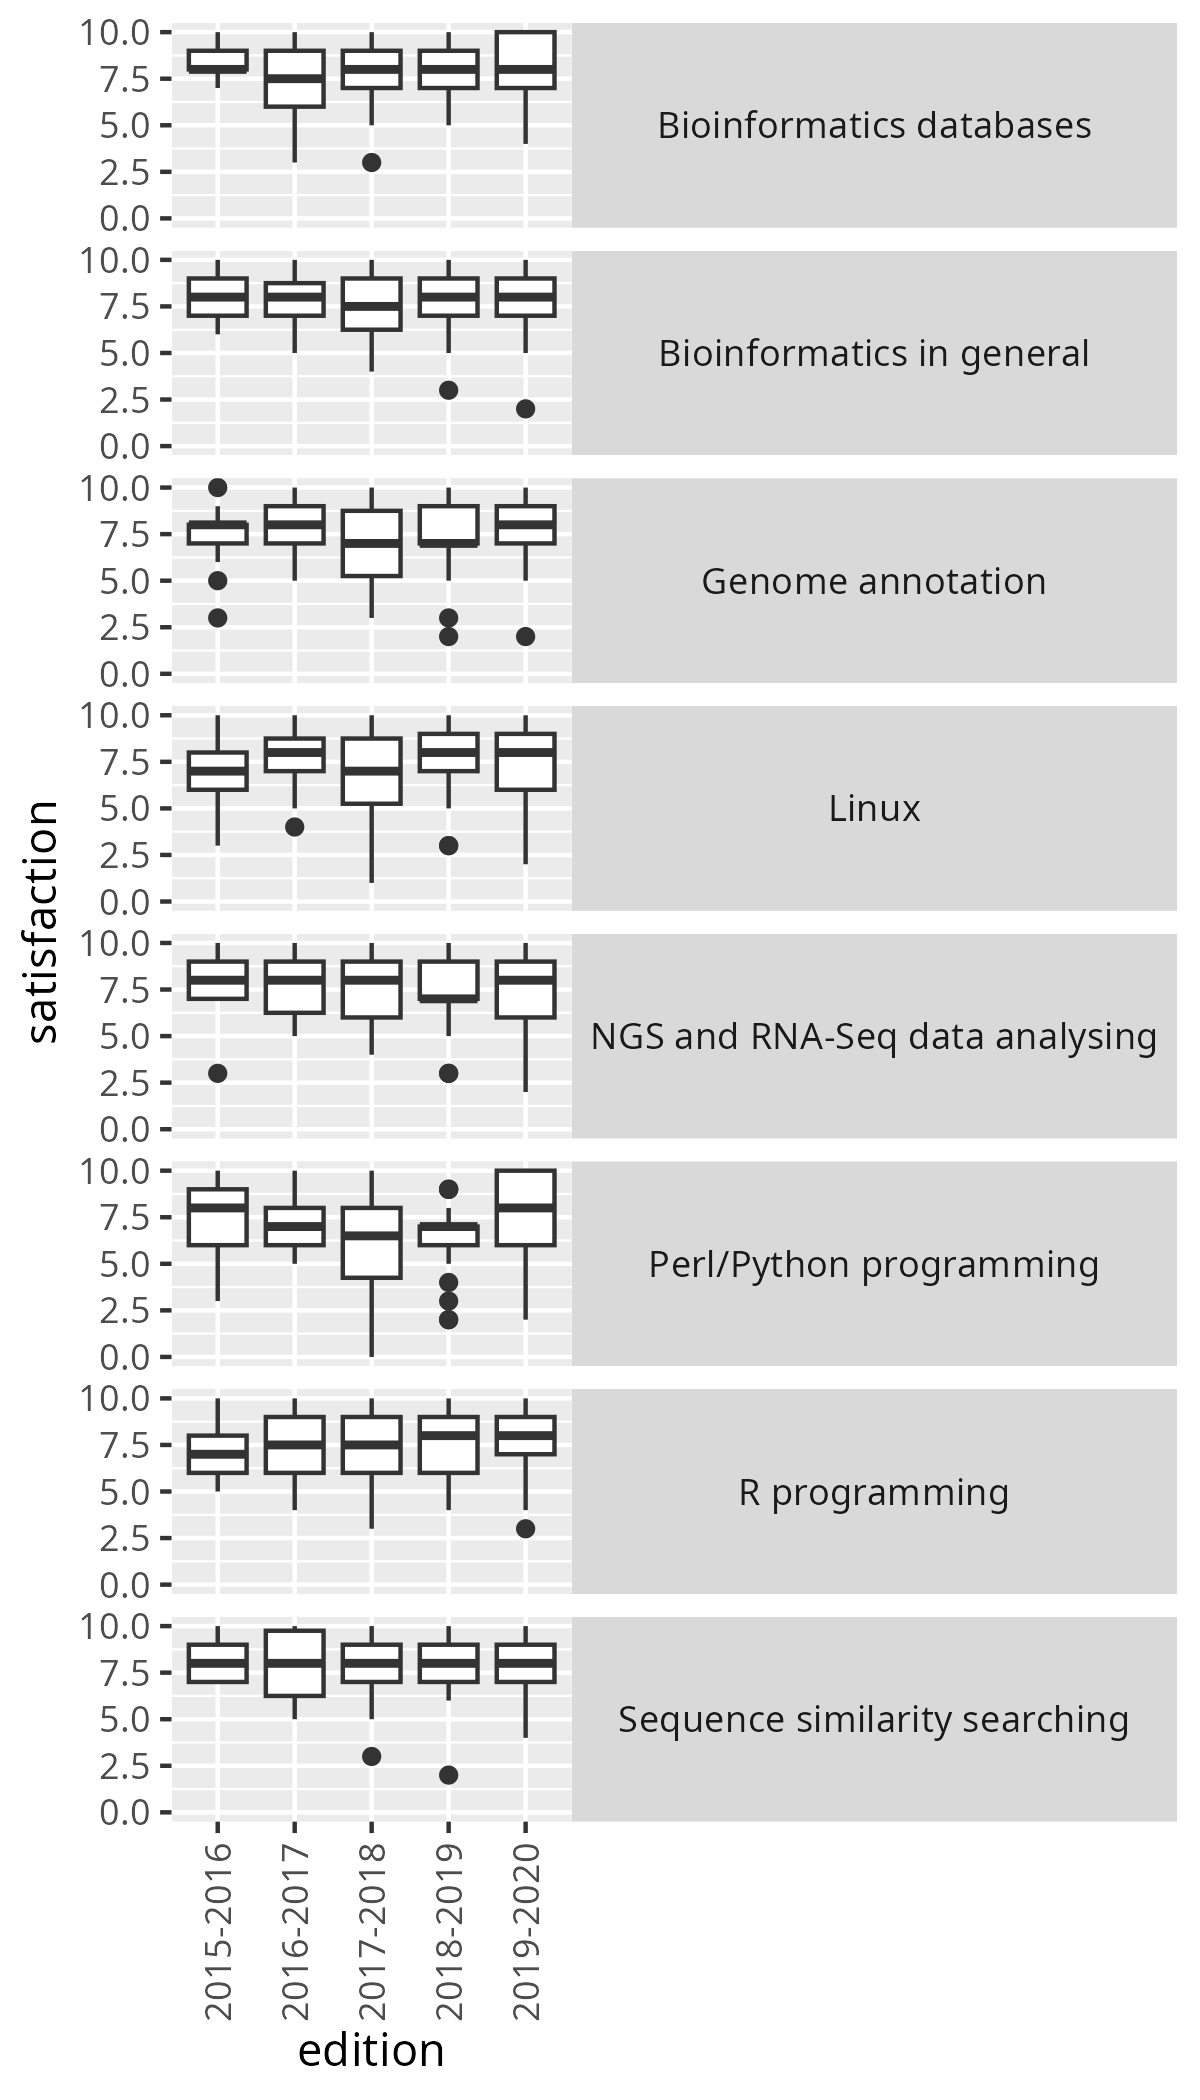
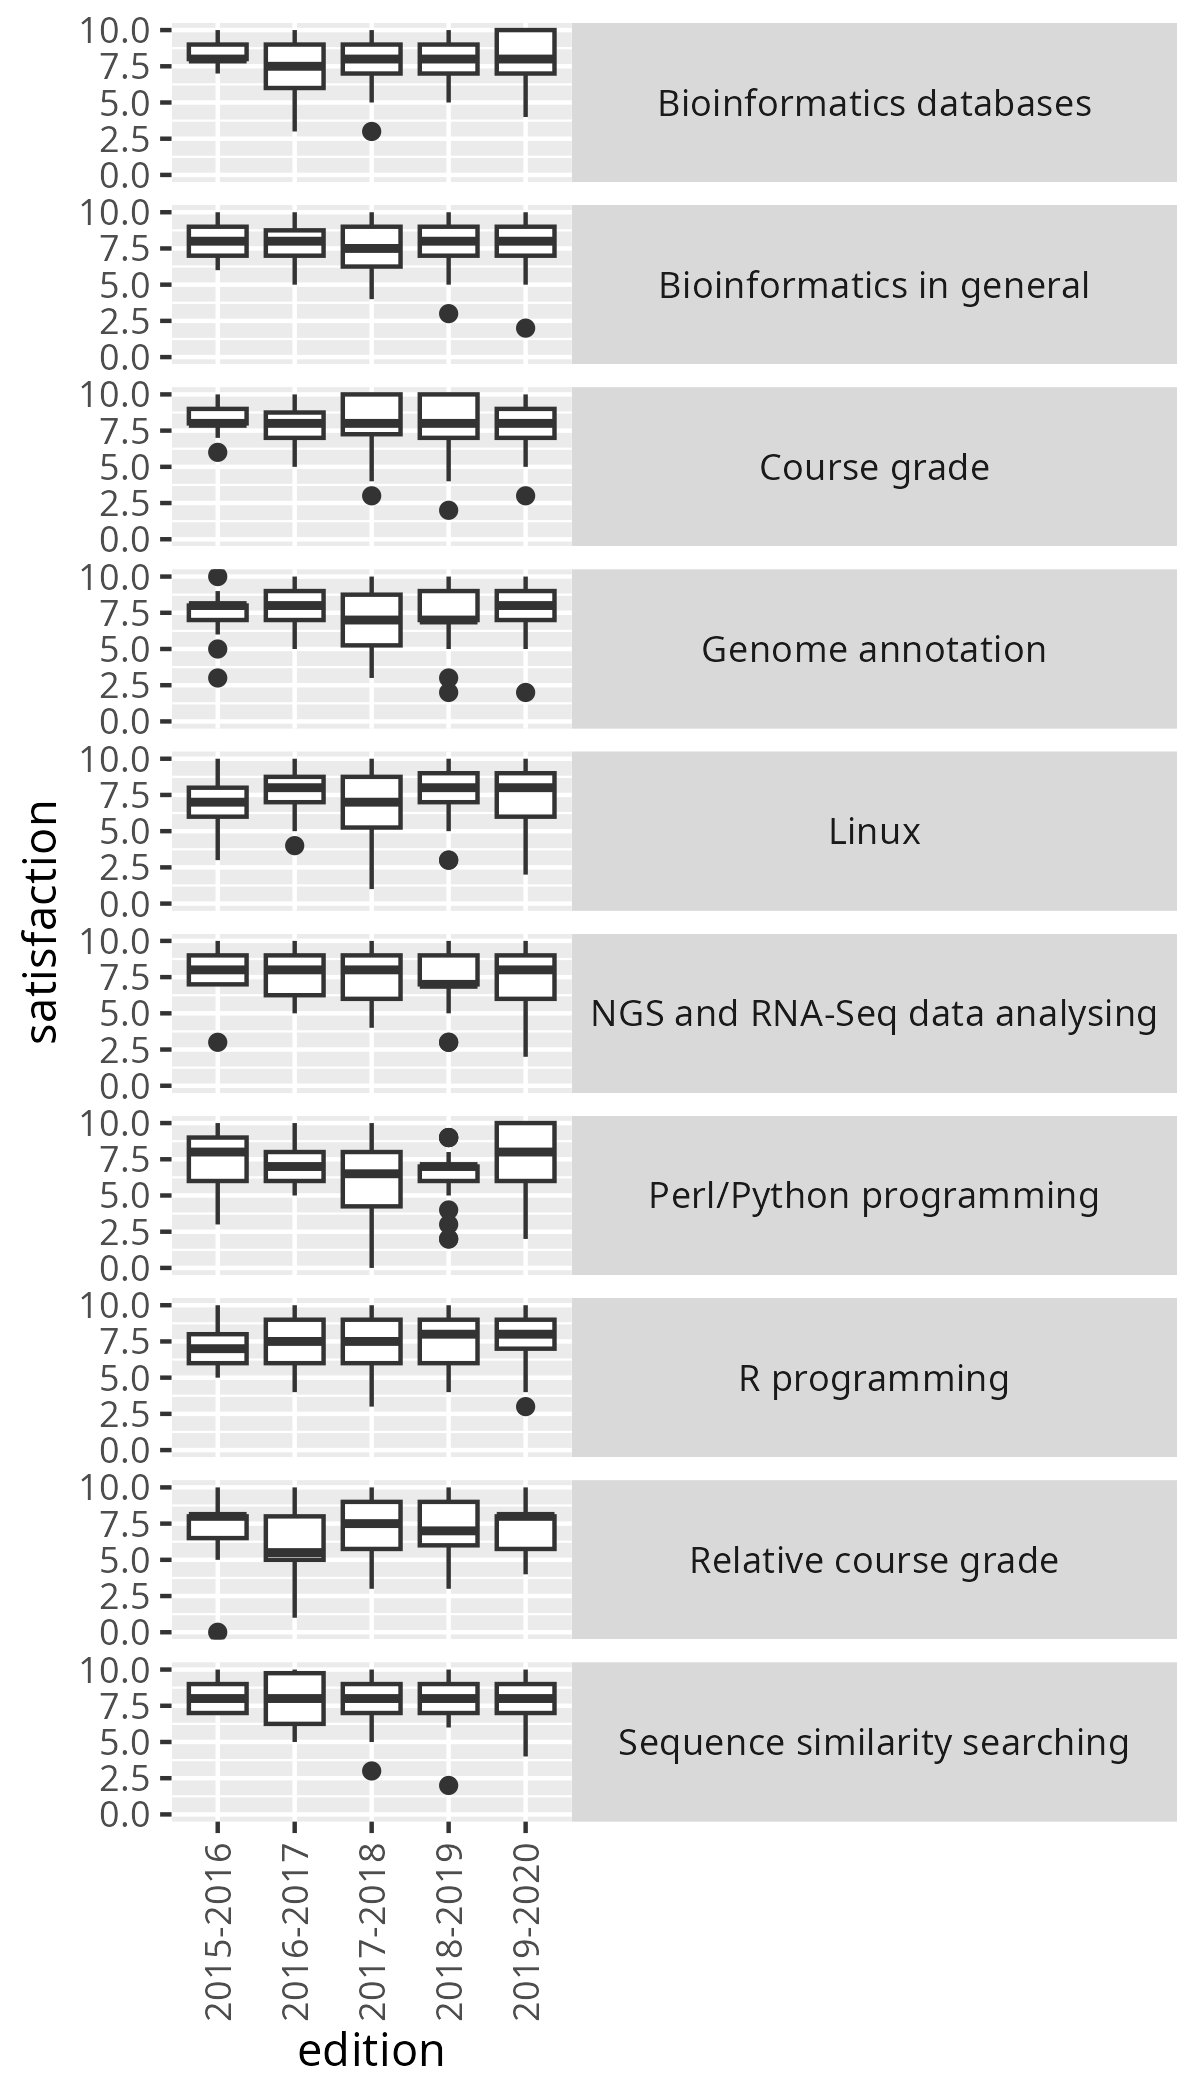
Analyse satisfactions

Changed region(s): [[0.0617, 0.0, 0.9867, 0.8667]]

diff --git a/docs/events/20250527/README.md b/docs/events/20250527/README.md
@@ -81,17 +81,33 @@ Well:
 - The data uses a scale from 1-10, where this is plotted from 1-5. Why?
 
 
-course                        |p_value|is_changing
-------------------------------|-------|-----------
-Sequence similarity searching |0.974|FALSE
-Bioinformatics databases      |0.616|FALSE
-Linux                         |0.277|FALSE
-R programming                 |0.289|FALSE
-Perl/Python programming       |0.176|FALSE
-NGS and RNA-Seq data analysing|0.857|FALSE
-Genome annotation             |0.154|FALSE
-Bioinformatics in general     |0.688|FALSE
-All combined                  |0.036|TRUE
+##  Fig 4a, section 4.3: student course satisfaction
+
+In section '4.3 Students' and teachers' overall course satisfaction
+help to progressively improve the programme':
+the problem with this title is that
+there is no change in any satisfaction over the years,
+except when I combine the satisfactions of the courses:
+
+|course                         | p_value|is_changing |
+|:------------------------------|-------:|:-----------|
+|Course grade                   |   0.684|FALSE       |
+|Relative course grade          |   0.438|FALSE       |
+|Sequence similarity searching  |   0.974|FALSE       |
+|Bioinformatics databases       |   0.615|FALSE       |
+|Linux                          |   0.277|FALSE       |
+|R programming                  |   0.289|FALSE       |
+|Perl/Python programming        |   0.176|FALSE       |
+|NGS and RNA-Seq data analysing |   0.857|FALSE       |
+|Genome annotation              |   0.154|FALSE       |
+|Bioinformatics in general      |   0.688|FALSE       |
+|Courses combined               |   0.036|TRUE        |
+
+> The average mark given by the students for the course as a whole
+> has always been above 8 out of 10 and is currently close to 9.
+
+Yes, let's focus on the learners that stay: this will ensure high grades. 
+
 
 ## References
 

diff --git a/docs/events/20250527/course_satisfaction_changes_test.md b/docs/events/20250527/course_satisfaction_changes_test.md
@@ -1,0 +1,13 @@
+|course                         | p_value|is_changing |
+|:------------------------------|-------:|:-----------|
+|Course grade                   |   0.684|FALSE       |
+|Relative course grade          |   0.438|FALSE       |
+|Sequence similarity searching  |   0.974|FALSE       |
+|Bioinformatics databases       |   0.615|FALSE       |
+|Linux                          |   0.277|FALSE       |
+|R programming                  |   0.289|FALSE       |
+|Perl/Python programming        |   0.176|FALSE       |
+|NGS and RNA-Seq data analysing |   0.857|FALSE       |
+|Genome annotation              |   0.154|FALSE       |
+|Bioinformatics in general      |   0.688|FALSE       |
+|Courses combined               |   0.036|TRUE        |
